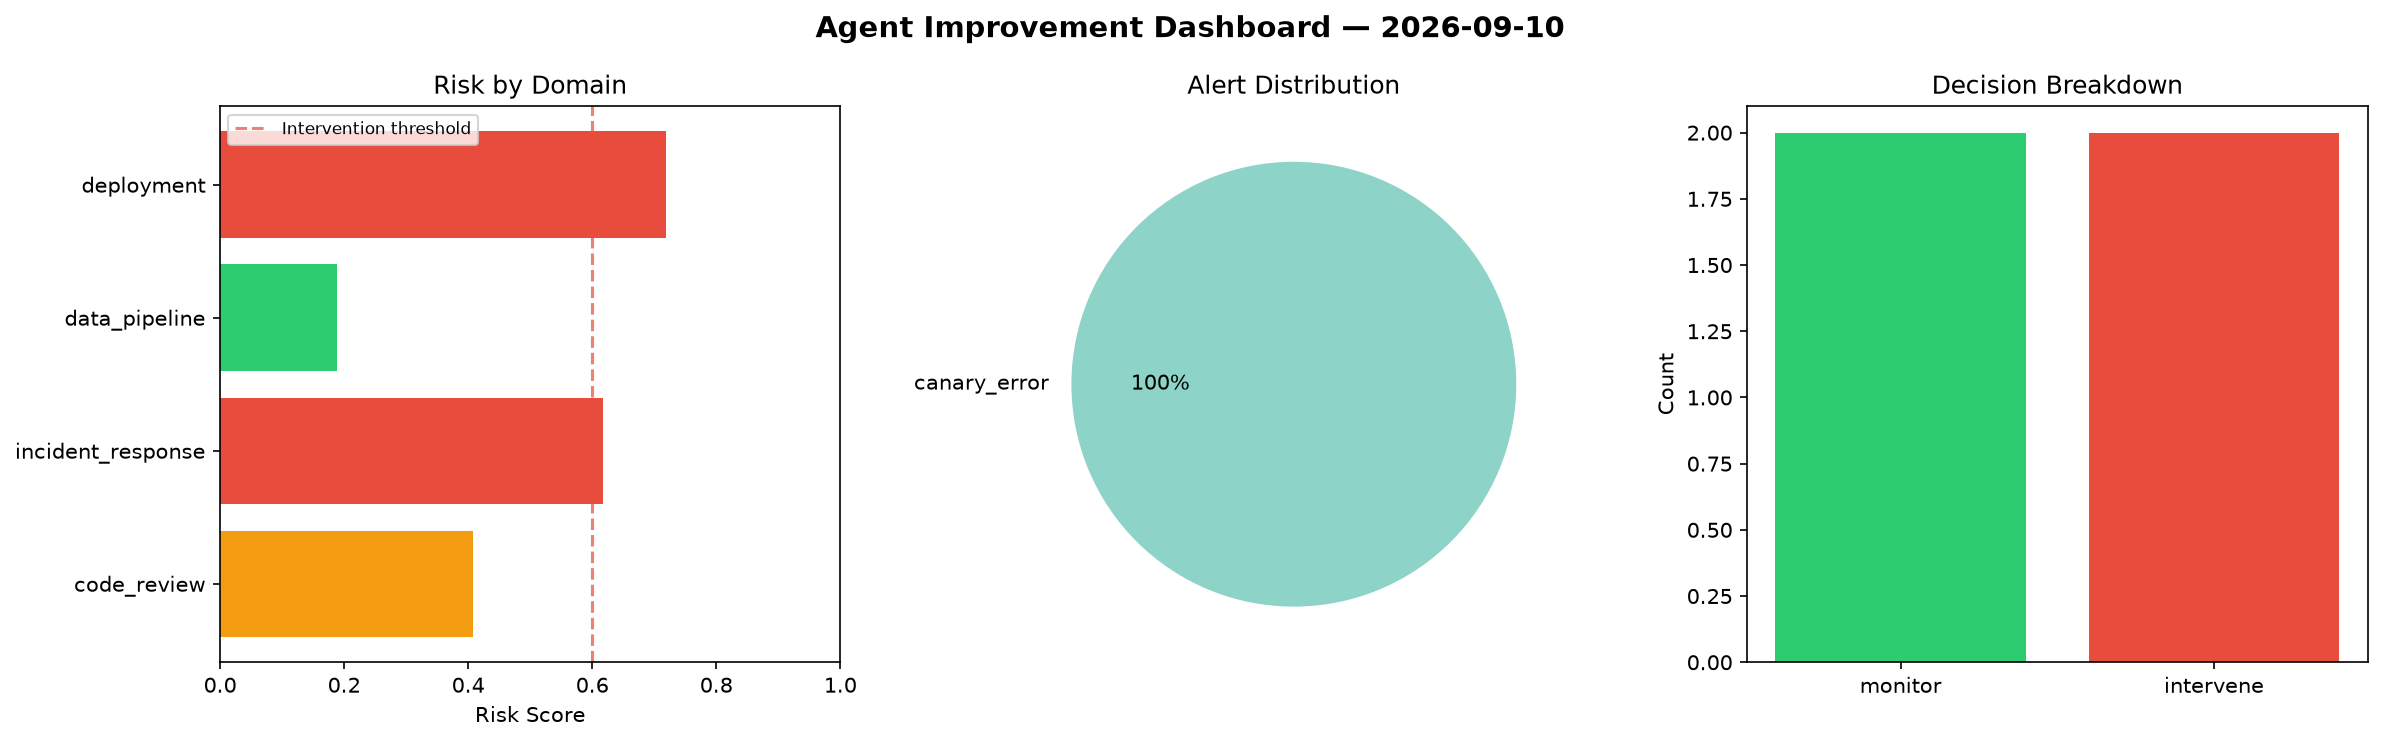
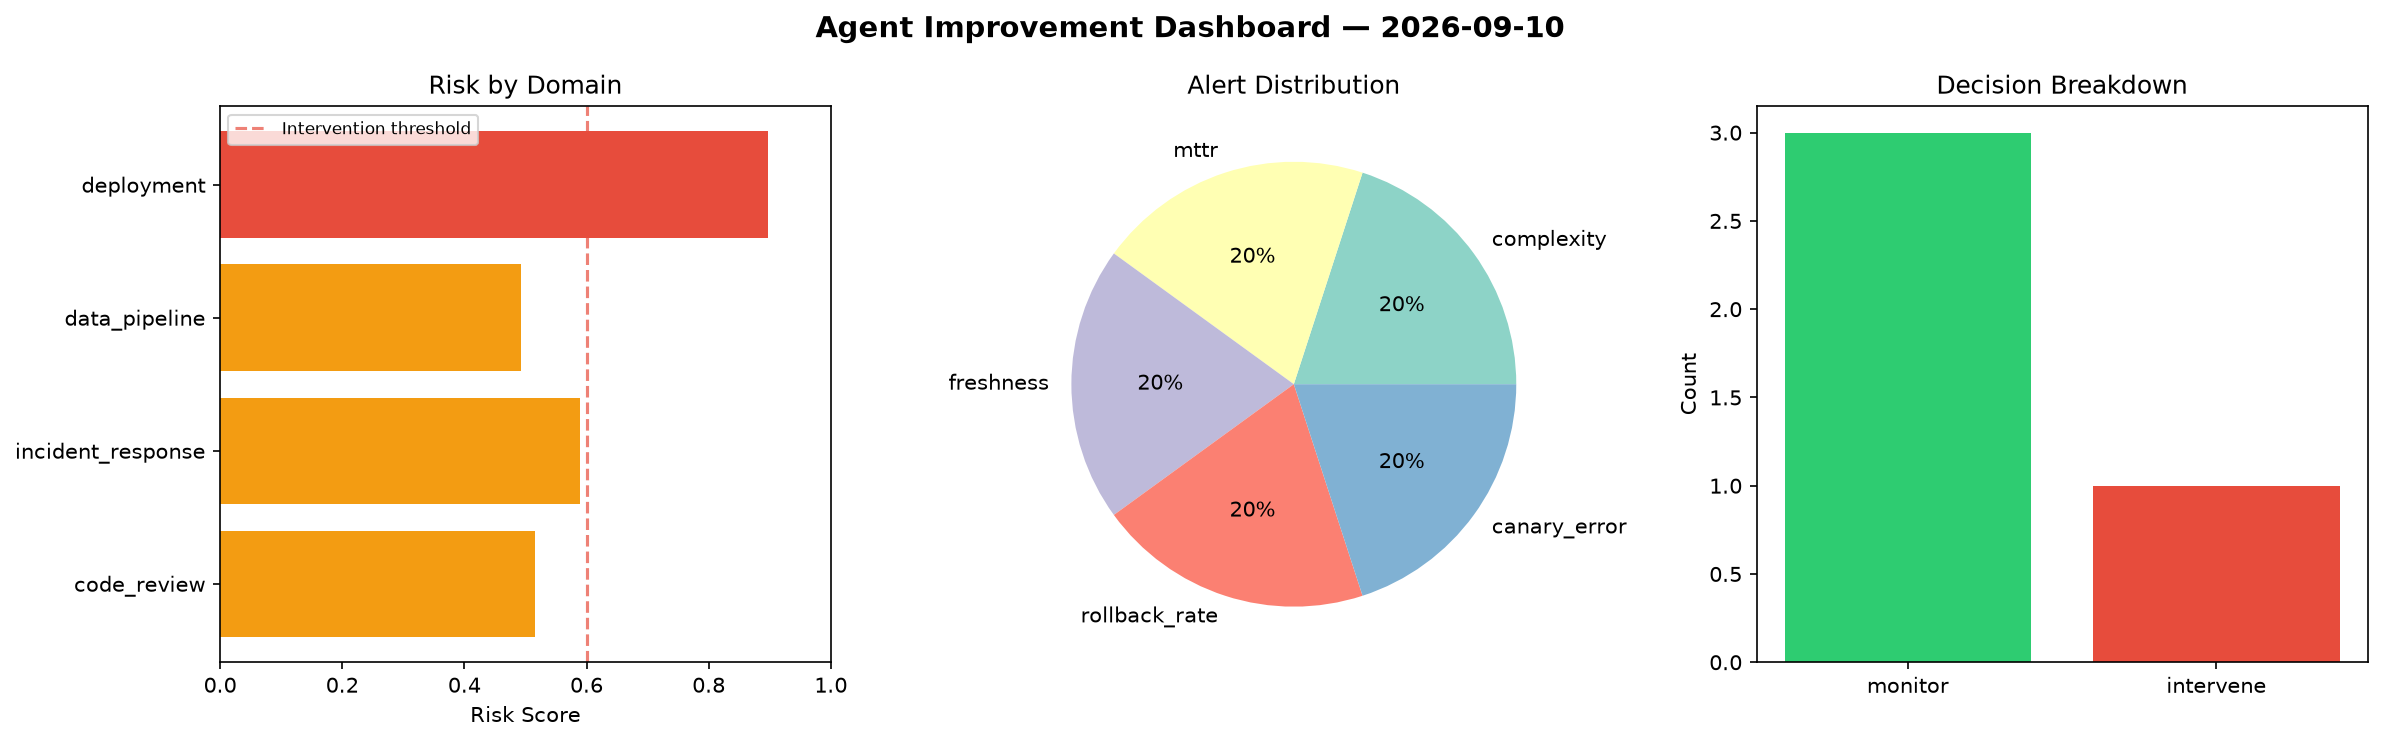
agent-improvement: daily cycle 2026-09-10T22:33

diff --git a/logs/2026-09-10.md b/logs/2026-09-10.md
@@ -1,6 +1,6 @@
 # Agent Improvement Report — 2026-09-10
 
-**Cycle ID:** `97f7d328` | **Avg Risk:** 0.4832 | **Interventions:** 2/4
+**Cycle ID:** `28d8c28d` | **Avg Risk:** 0.6233 | **Interventions:** 1/4
 
 ![Dashboard](2026-09-10_dashboard.png)
 
@@ -10,18 +10,18 @@
 
 | Domain | Risk Score | Decision | Alerts |
 |--------|-----------|----------|--------|
-| code_review | 0.4073 | monitor | none |
-| incident_response | 0.6172 | intervene | none |
-| data_pipeline | 0.1889 | monitor | none |
-| deployment | 0.7195 | intervene | canary_error |
+| code_review | 0.5149 | monitor | complexity |
+| incident_response | 0.5893 | monitor | mttr |
+| data_pipeline | 0.4921 | monitor | freshness |
+| deployment | 0.8968 | intervene | rollback_rate, canary_error |
 
 ## Delta vs Yesterday
 
 | Domain | Today | Yesterday | Change |
 |--------|-------|-----------|--------|
-| code_review | 0.4073 | 0.71 | 📉 -42.6% |
-| incident_response | 0.6172 | 0.2181 | 📈 183.0% |
-| data_pipeline | 0.1889 | 0.6485 | 📉 -70.9% |
-| deployment | 0.7195 | 0.479 | 📈 50.2% |
+| code_review | 0.5149 | 0.71 | 📉 -27.5% |
+| incident_response | 0.5893 | 0.2181 | 📈 170.2% |
+| data_pipeline | 0.4921 | 0.6485 | 📉 -24.1% |
+| deployment | 0.8968 | 0.479 | 📈 87.2% |
 
 **Refinement:** `{'adjustment': 'tighten_thresholds', 'trend': 'degrading', 'window': 4}`
